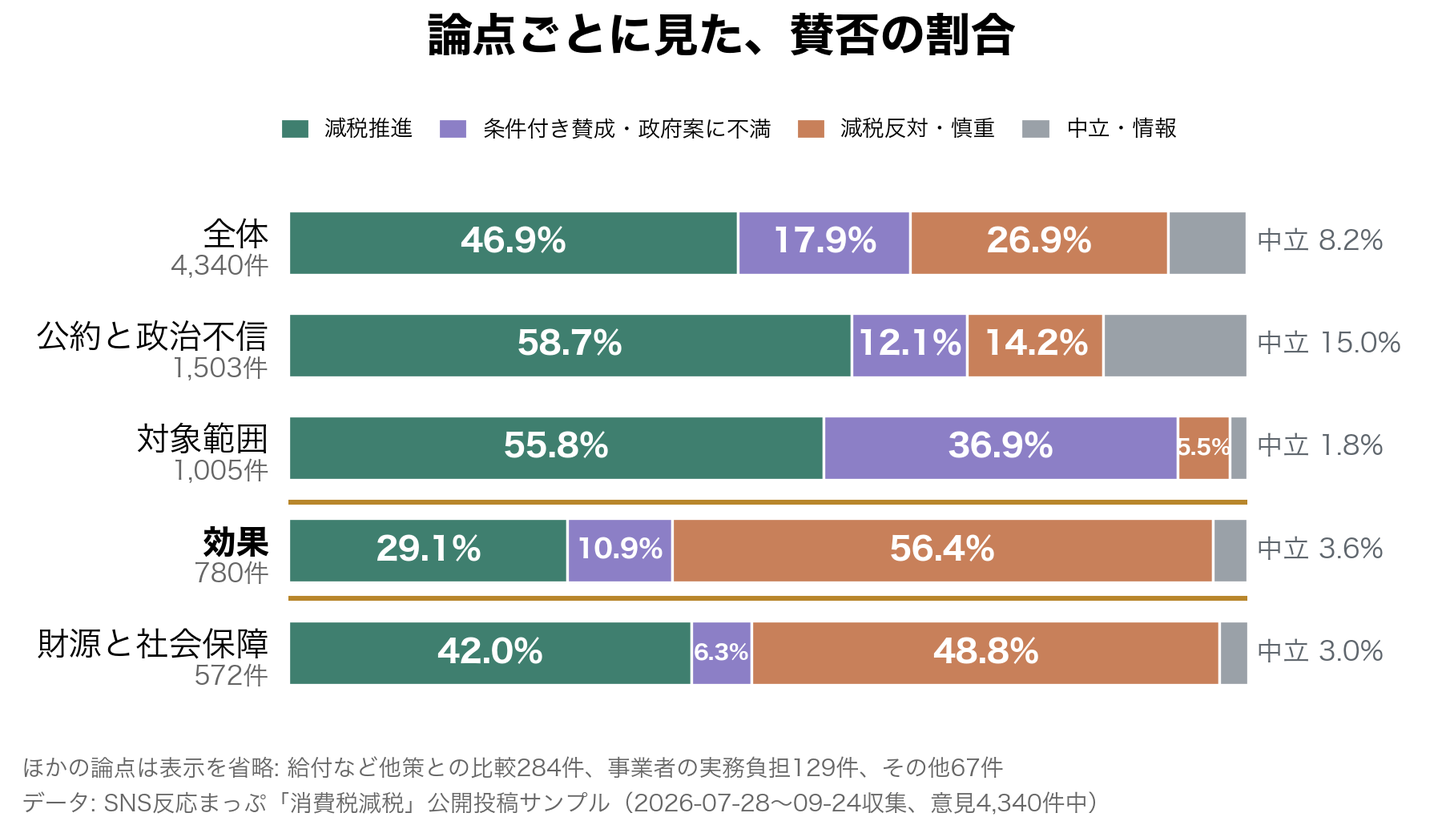
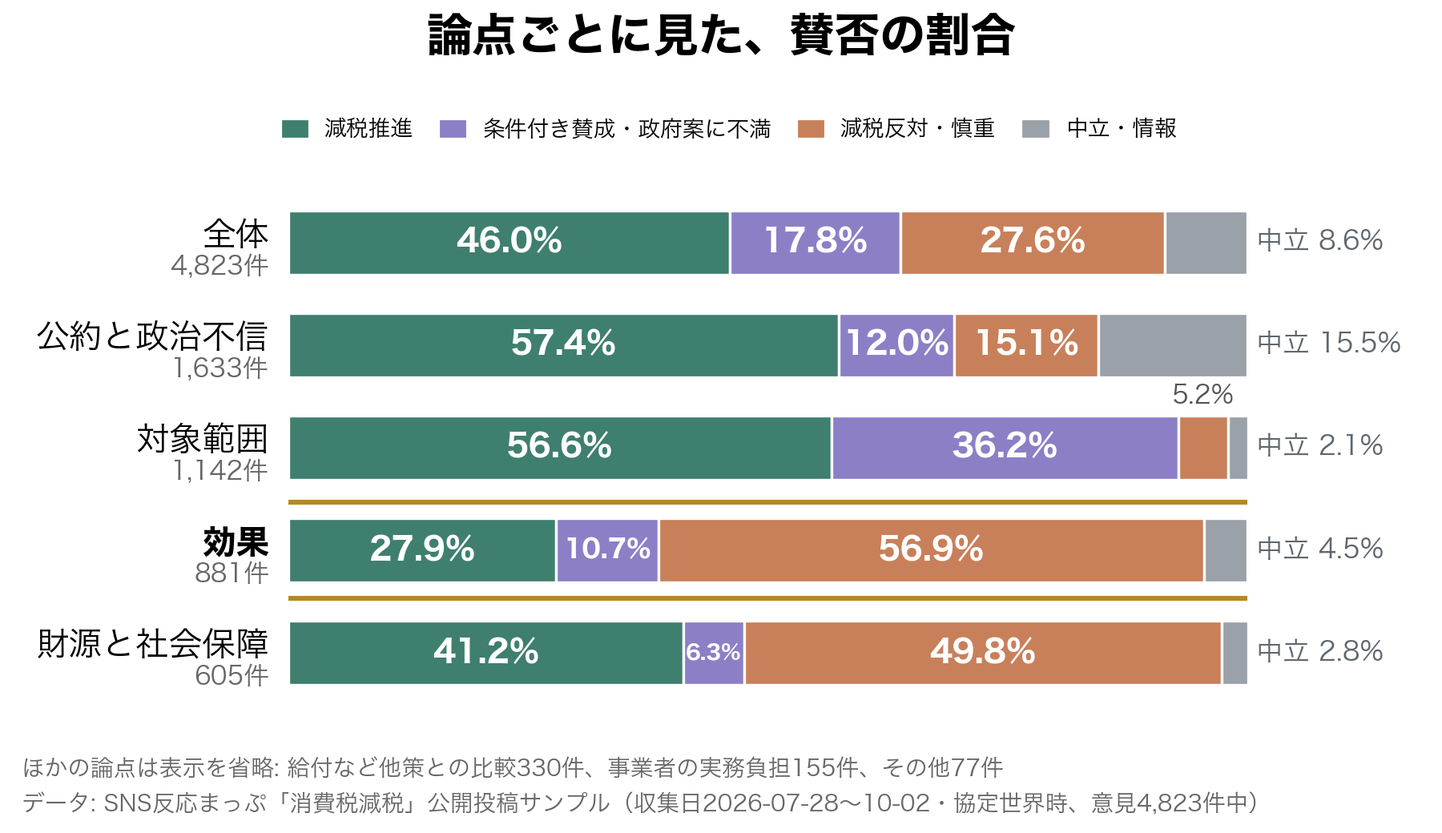
note第3回: 更新データと首相発言を反映し、4回目の独立確認の指摘を直す
- 前後の値札型の語句判定を補強（約3割）、首相発言への反応を語句の件数と読んだ仕分けに分けて再現可能にする
- 注記と図のキャプションに収集日が協定世界時であることを明記
- 目視ラベルを再仕分け（効果への返事34、反対論全般84）、図1の細い区間の数値を棒の上に出す
- 一次資料メモに資料T（首相発言）、審査記録とHANDOFFSを更新

diff --git a/quality/reviews/2026-10-03-note-taxcut-3.md b/quality/reviews/2026-10-03-note-taxcut-3.md
@@ -4,21 +4,25 @@
 - 媒体: note
 - 案件: 「消費税減税」第3回「SNSの賛否：効果をめぐる食い違い」の公開候補（note記事タイトル案「消費税減税の効果は『何と比べるか』で答えが変わる。SNSの『意味がない』を読む」）
 - 担当部門: 編集部AI（制作）/ 独立確認（制作とは別のエージェントが、承認ではなく問題探しの立場で実施）
-- 判定: ready_for_ceo（独立確認3回目の判定。記事本文・図・スクリプトについて。想定読者の1文と骨子①〜④はオーナーの確認待ち）
+- 判定: ready_for_ceo（独立確認4回目の指摘4点とnit6点を反映した版。4回目は「表の1〜4を直せば ready_for_ceo、再確認は不要」と判断した）。想定読者の1文と骨子①〜④はオーナーの確認待ち
 
 ## 状況更新
 
 - 2026-10-03: 貼り付け用原稿（`content/note/drafts/consumption-tax-cut-note3-FINAL.md`）、図2点、数字と図を再現するスクリプト（`content/note/drafts/figures/consumption-tax-cut3_build.py`）と目視ラベル（同 `consumption-tax-cut3_hand-labels.json`）、見出し画像の合成用HTMLと描画スクリプトを作成。見出し画像の背景写真は未着手（オーナーがGPTimage2で生成する。依頼プロンプトは原稿内）。
 - 公開文章をよみやす基準で最初から書いた最初のnote記事。手順は `.claude/skills/yomiyasu/SKILL.md` の実行1〜6の順に実施し、note-operationスキルの「執筆前チェック」（競合5件・差別化1文・想定読者1文）も、このスキルが追加された2026-09-21以降で初めて通した。
-- 独立確認は2回実施した（下の「独立確認の経過」）。1回目で記事の柱の言い方を弱めて全面的に書き直し、2回目の指摘も反映した。
+- 独立確認は4回実施した（下の「独立確認の経過」）。1回目で記事の柱の言い方を弱めて全面的に書き直し、2〜4回目の指摘も反映した。
+- 2026-10-03（独立確認3回目の後）: 別セッションが消費税減税の更新（意見4,823件、〜10/2収集）を公開したため、記事を更新後の数字に差し替えた（意見4,823件、効果881件）。結論の骨格は動かなかった（効果が主題の割合は推進11.1%・反対・慎重37.7%で同じ、効果の論点は反対・慎重56.9%・推進27.9%、前後の値札型は4回目の指摘で語句判定を補強して27.7%）。増えた賛成×効果の投稿19件は、同じ基準で目視の仕分けを足した。反対・慎重の61件と条件付き賛成の9件の要約も、すべて読んだ。
+- 同じ更新の収集期間（10/1〜10/2）に、首相が日本テレビのインタビューで「引き下げ分は基本的に価格に反映される」「値段を変えない店は店の風評にも関わる」と述べたと報じられた（毎日新聞10/1配信、日本経済新聞10/2）。SNSの最大の疑い（価格は下がらない）への政府トップの発言なので、大綱の節に1段落足した。日本時間10/1以降の意見372件のうち、風評・圧力・店の自由などの語に触れる投稿は、語句で数えて30件。30件を編集部が読んで仕分けると、首相の発言への批判や疑問は22件（独立確認の数え方は25件前後）、残りは報道前の投稿1、別の話題2、擁護・揶揄4、言及のみ1。仕分けは `consumption-tax-cut3_hand-labels.json` にIDつきで残し、`numbers` で再現できる。
 - 未実施: 想定読者の1文（note-operationスキルにより編集部＝オーナーが決める）、骨子①〜④のオーナー確認、見出し画像の背景写真と合成、タグ5個、マガジン追加、note下書きへの反映、投稿。
 
 ## 独立確認の経過
 
+（以下の件数と割合は、初稿の数字＝意見4,340件・〜9/24収集のもの。更新データへの差し替えは上の「状況更新」を参照）
+
 **1回目（判定 needs_revision。blocker 2件、should-fix 14件、nit 9件）** 主な指摘と対応:
 - B1（取り違え）: 賛成側の「3割は『効果はない』への返事」は誤りで、3割は反対論や批判全般への返事、「効果はない」への返事は約1割。→ 賛成の効果の投稿227件を全件読み直して目視で仕分けた（反対論全般75件=33.0%、うち効果をめぐる反対の主張への返事30件=13.2%）。独立確認の数え直しは68件（30.0%）と26件（11.5%）で同程度。本文を「3割ほど」「1割ほど」に直し、仕分けの結果をIDつきで `consumption-tax-cut3_hand-labels.json` に残した。
 - B2（誤り）: 反対・慎重が最多なのは効果だけではない（財源の行でも賛成を上回る）。→ 「過半になるのは効果だけ」に直した。
-- S1/S2（柱が事実より強い）: 「減税がなかった場合」と明示して比べる賛成の投稿は数件（目視で4件）しかなく、反対・慎重の前後の値札型も約4分の1。→ 柱を「比べ方の違いは議論がかみ合いにくい一因」に弱め、本文に「数件」「およそ4分の1」と書いた。リードの2つの例を同じ軸（値上げが続く／減税がなければ値上げ後はもっと高い）に揃えた。「店が減税分を取り込むか」は比べ方では決まらない事実の問題と分けて書いた。
+- S1/S2（柱が事実より強い）: 「減税がなかった場合」と明示して比べる賛成の投稿は数件（目視で4件）しかなく、反対・慎重の前後の値札型も約4分の1。→ 柱を「比べ方の違いは議論がかみ合いにくい一因」に弱め、本文に「数件」「およそ4分の1」と書いた（4回目の指摘で、語句判定の補強後は「3割近く」に直した）。リードの2つの例を同じ軸（値上げが続く／減税がなければ値上げ後はもっと高い）に揃えた。「店が減税分を取り込むか」は比べ方では決まらない事実の問題と分けて書いた。
 - S4（理由の型の精度）: 語句判定が全件の目視と数ポイントずれる。→ 順位づけをやめ、型の定義を作り直した（前後の値札型を最大とする）。型に入らない投稿の存在を書いた。
 - S7〜S9（一次資料の追加）: 8/5基本方針の別紙（社会保障国民会議の中間とりまとめ）に「減税分ほど税込価格が下がらない可能性」、第一ライフ資産運用経済研究所のレポート（値上げで押し下げ幅が縮む）、大綱の総額表示の経過措置（開始から2か月）。→ いずれも原文を取得して確かめ、本文に加え、一次資料メモに資料R・Sとして記録した。
 - S10（サンプルの作り方）: 20の検索語で集めており、検索語で賛成の割合が16〜74%違う。→ 注記に書いた。検索語を除くと「効果が主題の割合」の水準が下がる（差は残る）ことも書いた。
@@ -32,19 +36,28 @@
 
 **3回目（差分の確認。判定 ready_for_ceo）**: R1〜R12 は11件が解消、1件（記録の記述3点）が部分的で、その3点と本文のnit5点（理由の型に入らない投稿の例、計算例の前提の言い方、国民会議の正式名、「公約と政治不信」の注釈の向き、「見つかる」系の言い回しの重複）を直した。検査は `review_with_yomiyasu.py --strict` PASS（98/100）、`verify_ai_tone.py` 問題なし。
 
+**4回目（更新データ・首相発言の追記後。判定 needs_revision・軽微、blocker なし）**: 更新後の正典（5,459件・意見4,823件）で、注記の全数字と本文の丸め表現のほとんどを、独立確認が自分のコードで再計算して一致した。首相発言の段落は報道（毎日・日経の本文）と一致した。指摘10点と対応:
+- 1 公開される文の不正確: 「およそ4分の1」は、全件を読むと約3割 → 前後の値札型の語句判定を補強し（値下げ困難、反映せず、保証できない、経営者次第、ステルス、コスト上昇と値下げ、など）、139件（27.7%）に。本文を「3割近く」、注記・メモ欄・記録を更新。型に入らない投稿は237件から218件（43.5%）。
+- 2 「30件」は語句の件数で、反発の件数ではなく、書かれた語句でも再現できなかった → 語句を `PM_RX` として数字スクリプトに入れて30件・29件（毎日の配信以降）を再現可能にし、30件を読んで仕分けた結果（批判・疑問22件ほか）をIDつきで残した。注記は「語句で数えて30件、読んで確かめると批判や疑問は20件台」。本文は「店への圧力だと反発する投稿も見られます」（圧力・脅し・強要の語のほうが、「店の自由」より多かった）。
+- 3 「10月2日まで収集」は協定世界時の日付で、最後の取得は日本時間の10/3朝 → 注記と図のキャプションに「協定世界時」と明記。「10月1日以降」は日本時間と書いた。
+- 4 メモ欄と記録に旧データの数字が残っていた → 本稿で更新（56.9%、6割を超える、など）。
+- nit: 「3分の2近く」（63.8%）→「6割を超え」。「それぞれ1割前後」（9.2%と14.8%）→「1割から1割台半ば」。目視ラベル（増えた19件のうち1件は誤り、3件は見逃し）→ 1件を外し3件を足して再仕分け（効果への返事34、反対論全般84、5件は変わらず。「3割ほど」「1割ほど」は不変）。73字の文を2文に。「上ります」が隣り合う2文を言い換え。図1直後の言い直しの文を削除。一次資料メモに資料T（首相発言）を追記。次回更新で「財源」の反対・慎重が50%を超えたら見出しと本文を直す注意書きをメモ欄に追加。
+- 追加した再現性: 検索語ごとの賛成の割合（最小16.2%、最大73.2%）を `numbers` に出すようにした。図1で6%未満の区間の数値が棒からはみ出していた（対象範囲の反対・慎重5.2%）のを、棒の上に出すように直した。
+
 ## 確認結果
 
 - 事実・意見・推測の区別: 主張は地の文（リード「効果という論点で議論がかみ合いにくい一因は、この比較の違いにあると考えます」）に置き、数字・大綱・予測調査の記述と分けている。推測には「考えます」「受け取りかねません」を付けた。「政府の試算は見つからなかった」は「編集部が探した範囲では」と限定し、「試算が見つからなくても効果がないことにはならない」と添えた。
-- 一次資料・出所: ①大綱本文（PDF16ページ。目的の原文引用、「転嫁」「便乗」「値上げ」の語が0回、「検証」は支援金の基準額・支援額の2か所のみ、総額表示の経過措置）、②日本経済研究センター「ESPフォーキャスト調査」2026年9月（ページ本文。回答者37名、1.07／1.61／0.38ポイント、効果の定義「飲食料品減税がなかった場合と比べた押し下げ効果」）、③社会保障国民会議「中間とりまとめ」（8/5基本方針の別紙。「減税分ほど税込価格が下がらない可能性」）、④第一ライフ資産運用経済研究所（熊野英生氏、2026-06-08）のレポート。いずれもURLを開いて原文を読み、引用文字列と数字の一致を確認し、`quality/research/consumption-tax-cut-primary-sources.md` の資料N・Q・R・Sに記録した。
-- 数字: 本文・図・注記の数字は `consumption-tax-cut3_build.py numbers` で再現できる。注記の57個の数字を出力と機械で照合し、外部資料由来の4個（ESPの1.61と0.38、第1・2回の件数）を除いて一致した。独立確認も自分のコードで再計算し、件数・割合・頑健性は全項目が一致した。理由の型と返事の型は読みで決まるため、同程度（±4ポイント。型に入らない投稿だけは、語句判定の45.2%に対し、全件を読んだ独立確認の読みで32〜38%）。
-- SNSサンプルの限界: リードに「無作為抽出の世論調査ではなく、SNS公開投稿のサンプル分析です」、注記に20の検索語と「検索語で賛成の割合が16%から74%まで違うため、割合は投稿全体の比率を表さない」、AI分類の揺れ、サイト上の理由分類とは別の集計であることを明記した。検索語・同一人物・大綱決定後で数え直しても効果の論点の傾向が変わらないこと、立場ごとの「効果が主題」の割合は水準が動くこと（差は残る）も書いた。
+- 一次資料・出所: ①大綱本文（PDF16ページ。目的の原文引用、「転嫁」「便乗」「値上げ」の語が0回、「検証」は支援金の基準額・支援額の2か所のみ、総額表示の経過措置）、②日本経済研究センター「ESPフォーキャスト調査」2026年9月（ページ本文。回答者37名、1.07／1.61／0.38ポイント、効果の定義「飲食料品減税がなかった場合と比べた押し下げ効果」）、③社会保障国民会議「中間とりまとめ」（8/5基本方針の別紙。「減税分ほど税込価格が下がらない可能性」）、④第一ライフ資産運用経済研究所（熊野英生氏、2026-06-08）のレポート、⑤首相の発言の報道（毎日新聞2026-10-01 20:14配信、日本経済新聞2026-10-02）。いずれもURLを開いて原文を読み、引用文字列と数字の一致を確認し、`quality/research/consumption-tax-cut-primary-sources.md` の資料N・Q・R・S・Tに記録した（⑤の日本経済新聞は有料記事のため、編集部は見出しと冒頭のみ。本文の照合は4回目の独立確認の報告による）。
+- 数字: 本文・図・注記の数字は `consumption-tax-cut3_build.py numbers` で再現できる。注記（「データについて」）の77個の数字を出力と機械で照合し、第1・2回の件数（3,358件、3,890件。前の回の記事の数字）の2個を除いて一致した（制度の出典の段落の数字は外部資料由来）。更新後のデータでも、4回目の独立確認が自分のコードで注記の全数字と本文の丸め表現を再計算し、件数・割合・頑健性が全項目一致した。理由の型と返事の型は読みで決まるため、同程度（前後の値札型は語句判定の補強後27.7%で、独立確認の読みは約3割。型に入らない投稿は語句判定の43.5%に対し、全件を読んだ読みで33〜37%と、語句判定のほうが多め。注記にその旨を書いた）。
+- SNSサンプルの限界: リードに「無作為抽出の世論調査ではなく、SNS公開投稿のサンプル分析です」、注記に20の検索語と「検索語によって賛成の割合は16%から73%まで違うため、割合は投稿全体の比率を表しません」、AI分類の揺れ、サイト上の理由分類とは別の集計であることを明記した。検索語・同一人物・大綱決定後で数え直しても効果の論点の傾向が変わらないこと、立場ごとの「効果が主題」の割合は水準が動くこと（差は残る）も書いた。
+- 首相の発言: 毎日新聞（2026年10月1日20:14配信）と日本経済新聞（10月2日10:00）の記事本文で、「基本的に価格に反映される」「店の風評にも関わる」という趣旨の発言と日付を確認した（日本経済新聞の本文の照合は4回目の独立確認の報告による）。記事は「10月1日には…と報じられました」と、報道の事実として書き、発言の中身の評価はしていない。SNSの反応は「店への圧力だと反発する投稿も見られます」と、見られる事実だけを書いた。
 - 引用の正確性: 本文のX投稿3件のURLを正典JSONと照合し、本文の言い換えは原文に忠実。2026-10-03にXの埋め込みAPIで3件とも公開中（HTTP 200、本文一致）を確認した。原文の転載はせず、要約している。
 - 多様な立場への配慮: 反対・慎重側が守ろうとしているもの（毎日の買い物で実際に払う金額）、賛成側のそれ（物価高のなかでの家計の負担）、条件付き賛成の位置づけを書いた。「どちらの投稿も、暮らしの負担が軽くなるかどうかを気にしている点は同じ」と添え、どちらも愚かに描いていない。特定の政党・個人への評価はない。
-- 自分に不利な事実: 全体では賛成が最多（条件付きを足すと3分の2近く）で、効果の話での反対・慎重の過半は減税そのものへの多数の反対ではないこと、「減税がなかった場合」と明示する賛成の投稿は数件にとどまること、前後の値札型は約4分の1にとどまること、ESP調査は減税で物価が下がるとみていること、を自分から先に書いた。
+- 自分に不利な事実: 全体では賛成が最多（条件付きを足すと6割を超える）で、効果の話での反対・慎重の過半は減税そのものへの多数の反対ではないこと、「減税がなかった場合」と明示する賛成の投稿は数件にとどまること、前後の値札型は3割近くにとどまること、ESP調査は減税で物価が下がるとみていること、を自分から先に書いた。
 - 著作権・個人情報・安全: 投稿は埋め込み3件と要約のみ。投稿者名以上の個人特定情報はない。見出し画像の背景写真はAI生成（オーナーが生成）。
-- 表現・画像・アクセシビリティ: 図2点はいずれも本文で数字の意味を説明し、数値ラベルがあるため色だけに依存しない。375px幅に縮小して主要な数字（46.9%、56.4%、11.1%、37.7%など）を読めることを確認した。
+- 表現・画像・アクセシビリティ: 図2点はいずれも本文で数字の意味を説明し、数値ラベルがあるため色だけに依存しない。更新前の図で、375px幅に縮小して主要な数字を読めることを確認した。更新後の図は、文字の拡大率を変えずに数字だけ差し替え、実寸で数値のはみ出しがないことを目で確かめた（図1の6%未満の区間は棒の上に出すよう直した）。375px幅への縮小は更新後の図では再実施していない。
 - 計測・リンク: UTM付きテーマページリンク4本（`after_chart`/`after_reasons`/`after_conclusion`/`footer`、`utm_campaign=note_taxcut3_20261003`＝暫定の日付）、うち「投票」型が2本。新ドメイン `sns-reaction-map.jp`。
-- 文体の検査: `review_with_yomiyasu.py --strict` PASS（98/100、止める指摘0件。info 1件は必要な否定「世論調査ではなく」）、`verify_ai_tone.py` 問題なし。補助検査: 平均文長40.4字、最長69字、読点3個以上の文なし、ダッシュ記号0、半角空白0（注記のURL直後と見出し記号を除く）、読者の目に映る語尾の3連続0。本文の「件」は5回（上限8）。
+- 文体の検査: `review_with_yomiyasu.py --strict` PASS（98/100、止める指摘0件。info 1件は必要な否定「世論調査ではなく」）、`verify_ai_tone.py` 問題なし。補助検査: 平均文長39.9字、最長64字、読点3個以上の文なし、ダッシュ記号0、半角空白0（注記のURL直後と見出し記号を除く）、読者の目に映る語尾の3連続0（4回目の反映後に再実行）。本文の「件」は5回（上限8）。
 - 規則との差: note-operationスキルの「本文に置く数字は4種類まで」は、約11種類で超えている（比較の柱に必要な割合と、反例となる数字を本文に残したため）。第1回でオーナーが公開した版も超えており、機械検査が見るのは「件」の回数のみ。オーナーが気になるなら、図と注記に預ける削り方を提案できる。
 
 ## よみやす導入の検証
@@ -73,13 +86,13 @@
 
 ## 残るリスクと戻し方
 
-- リスク1（更新データとのずれ）: 別の作業ツリー（`isa-wt-consumption-tax-20261003`）で消費税減税の更新分（暫定で意見4,823件、2026-10-03時点で未マージ）が進行中。取り込まれると、サイトの母数・割合と記事の4,340件がずれる。暫定の再計算では結論は変わらない（効果の論点は反対・慎重56.9%、推進27.9%。効果が主題の割合は推進11.1%、反対・慎重37.7%で同じ。理由の型の順位も同じ）。対応: 更新の取り込み後に公開するなら、公開前に `consumption-tax-cut3_build.py numbers` と `figs` を再実行して、本文・図・注記の数字を差し替える。先に公開するなら、記事末に収集期間（〜9月24日）を明記してあるので数字自体は誤りにならない。
+- リスク1（更新データとのずれ）: 解消済み。初稿は〜9/24収集の4,340件で書いたが、別セッションが10/3に更新（意見4,823件、〜10/2収集）を公開したため、記事・図・注記を更新後の数字に差し替えた。次の更新（予定10/10）の後に公開する場合は、公開前に `consumption-tax-cut3_build.py numbers` と `figs` を再実行し、増えた賛成×効果の投稿と、首相発言への反応の仕分け（データが増えるとスクリプトが「一致しない」で止まる）を目視ラベル（`consumption-tax-cut3_hand-labels.json`）に足して、数字を差し替える。「財源と社会保障」の反対・慎重が50%を超えたら、見出し「…過半になる論点は『効果』だけ」と本文も直す（今回は49.8%）。
 - リスク2（公開順）: `content/note/posts.md` に第2回の公開記録が無い。第3回の「このシリーズについて」は第2回が先に出る前提で書いてある。順序が変わるなら直す。
-- リスク3（概数の精度）: 理由の型は要約文の語句判定で、誤検出と見逃しがある（型に入らない投稿の割合は、語句判定で45.2%、全件を目視した独立確認の読みで3〜4割）。本文は「およそ」「ほど」で書き、図には出していない。賛成側の返事の数字は目視の仕分けで、独立確認の数え直しと同程度（33.0%対30.0%、13.2%対11.5%）。
+- リスク3（概数の精度）: 理由の型は要約文の語句判定で、誤検出と見逃しがある（型に入らない投稿の割合は、語句判定で43.5%、全件を目視した独立確認の読みで33〜37%。前後の値札型は語句判定の補強後27.7%、独立確認の読みで約3割）。本文は「3割近く」「ほど」で書き、図には出していない。賛成側の返事の数字は目視の仕分けで、独立確認の数え直しと同程度（84件=34.1%対約84件、34件=13.8%対約34件）。首相発言への反応は、語句で数えて30件、読んで批判・疑問が22件（独立確認は25件前後）で、本文は「20件台」と書いた。
 - リスク4（引用投稿の消失）: 本文のX投稿3件は、2026-10-03にXの埋め込みAPIで存在を確認した。削除されると、noteの埋め込みは表示されなくなる。貼り付け時に表示を確認する。
 - リスク5（「政府の試算が見つからない」）: 探した範囲の記述で、存在しないとは断言していない。独立確認も11回の検索で同じ結論（この引下げの物価・景気効果を直接示す政府試算は見つからなかった。内閣府の経済財政モデルの一般的な乗数表、有識者の提出資料、税収減の数字、民間の試算はあるが、いずれも効果を直接示す政府の試算ではない）。公開前にもう一度検索する。
 - リスク6（見出し画像）: 背景写真が未生成。合成用HTMLと描画スクリプトは用意済みで、仮の写真でレイアウト（「2倍→比べ方」）が左の余白に収まることを確認した。写真が届けば1コマンドで書き出せる。
-- リスク7（元からのテスト失敗）: `tests/test_portal_stats.py` の `test_top_page_matches_canonical_stats` が、本稿の変更を退避した状態（main）でも落ちる。原因は、トップページの「次回更新」が台帳とずれていることと、消費税減税の定期収集（予定日10/2）の期限超過。別の作業ツリーで進行中の更新が取り込まれれば解消する見込み。本稿の変更とは無関係。
+- リスク7（元からのテスト失敗）: 解消済み。`tests/test_portal_stats.py` の `test_top_page_matches_canonical_stats` は、更新の公開前は本稿と無関係に落ちていた（トップページの「次回更新」のずれと、収集期限10/2の超過）。別セッションの更新が公開された後の最新のmainに本稿の変更を載せた作業ツリーで、単体テスト1316件・公開ファイル検査・トップページ検査がすべて通ることを確認した。
 - 戻し方: 本文・図・スクリプトはすべて新規ファイルで、既存の公開物は変えていない。取り下げは `task/taxcut-note3` のマージを取り消せば元に戻る（追加のファイル群と、台帳・一次資料メモへの追記のみ）。
 
 ## CEOへ渡す内容

diff --git a/quality/research/consumption-tax-cut-primary-sources.md b/quality/research/consumption-tax-cut-primary-sources.md
@@ -104,6 +104,18 @@
 - 使いどころ: 「値上げで効果が縮む」というSNSの心配に、専門家の分析もあることを示す（note第3回）。ただし結論は筆者の見方であり、事実として断定しない
 - 確認日: 2026-10-03
 
+### 資料T（首相の発言・日本テレビのインタビュー、2026年10月1日）
+- 発行機関 / 記事名 / 配信日時 / URL / 該当箇所
+  - 毎日新聞 / 「高市首相、消費減税で値下げしなければ「店の風評にも関わる」」 / 2026年10月1日 20:14配信（Yahoo!ニュース配信ページ） / https://news.yahoo.co.jp/articles/0c2b938192dfd9ee43fadee9aff1ede858e72296
+  - 日本経済新聞 / 「高市首相、消費税減税で値下げしなければ「店の風評に関わる」」 / 2026年10月2日 / https://www.nikkei.com/article/DGXZQOUA020IU0S6A001C2000000/ （有料記事。見出しと冒頭のみ確認）
+- 確かめられる事実（編集部が毎日新聞の配信ページを取得して、見出し・配信日時・引用発言を確認。さらに4回目の独立確認が、毎日新聞（2026-10-01 20:14:06配信）と日本経済新聞（2026-10-02 10:00配信、日本時間）の本文を別に取得して、「1日の日本テレビのインタビュー」「基本的に価格に反映される」「店の風評にも関わる」が両紙で一致することを確かめた）:
+  - 首相は10月1日、日本テレビのインタビューで、消費税の引き下げ分について「基本的に価格に反映される」との認識を示し、価格が下がらなければ「店の風評にも関わる」と述べた
+  - 同じインタビューで、「生活必需品で消費期限もある。買いだめをして急激に消費が増えるという効果は相対的には大きくない」とも述べている
+  - 番組名は記事に書かれていない。価格の反映を確認する仕組み、要請、法的措置についての記載は、毎日新聞の記事には見当たらなかった
+  - 【注意】報道の引用であり、インタビューの原文（映像・書き起こし）は確認していない。「引き下げ分は基本的に価格に反映される」は、報道が引用した発言のうち、note本文で言い換えて使った部分
+- 使いどころ: note第3回「大綱が掲げるのは負担の軽減で、効果の検証規定は見当たらない」の節で、価格への反映をめぐる政府側の最新の認識と、それに対するSNSの反応（店への圧力だと反発する投稿）を書く。反応の数え方は `consumption-tax-cut3_build.py numbers` の「首相発言への反応」（語句で数えた件数）と、編集部が30件を読んで仕分けた結果（批判や疑問は22件、残りは報道前の投稿・別の話題・発言への擁護）を `quality/reviews/2026-10-03-note-taxcut-3.md` に残した。独立確認の数え方は25件前後で、本文は「20件台」と書いている
+- 確認日: 2026-10-03
+
 ## 3. 対象範囲
 
 ### 資料G
